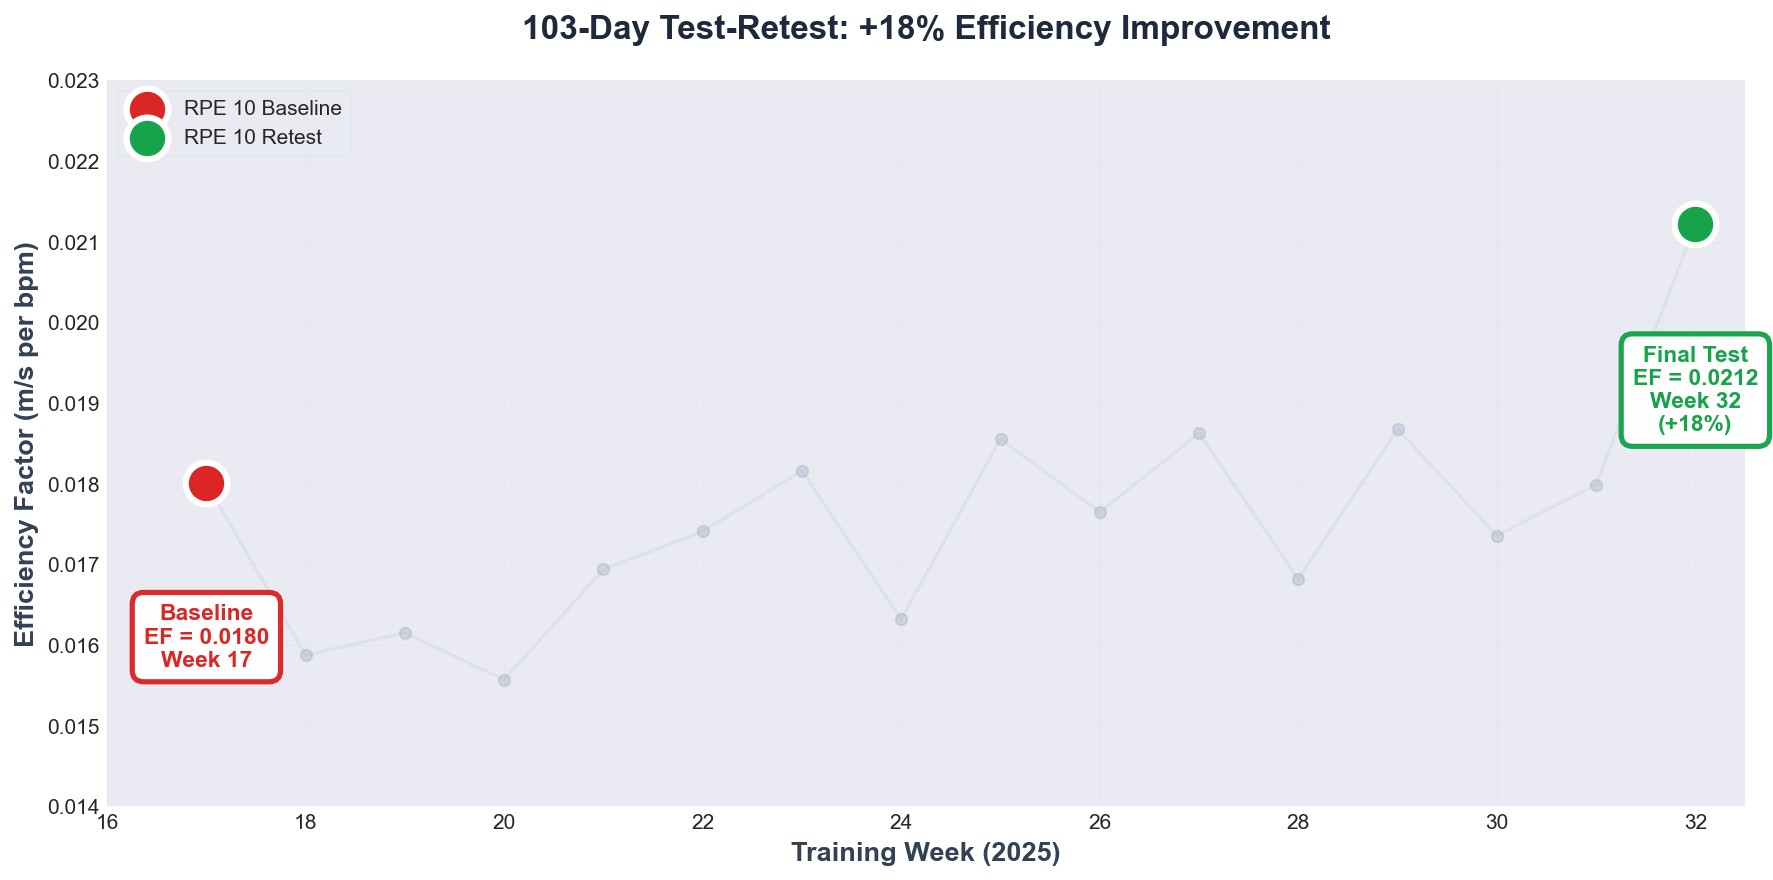
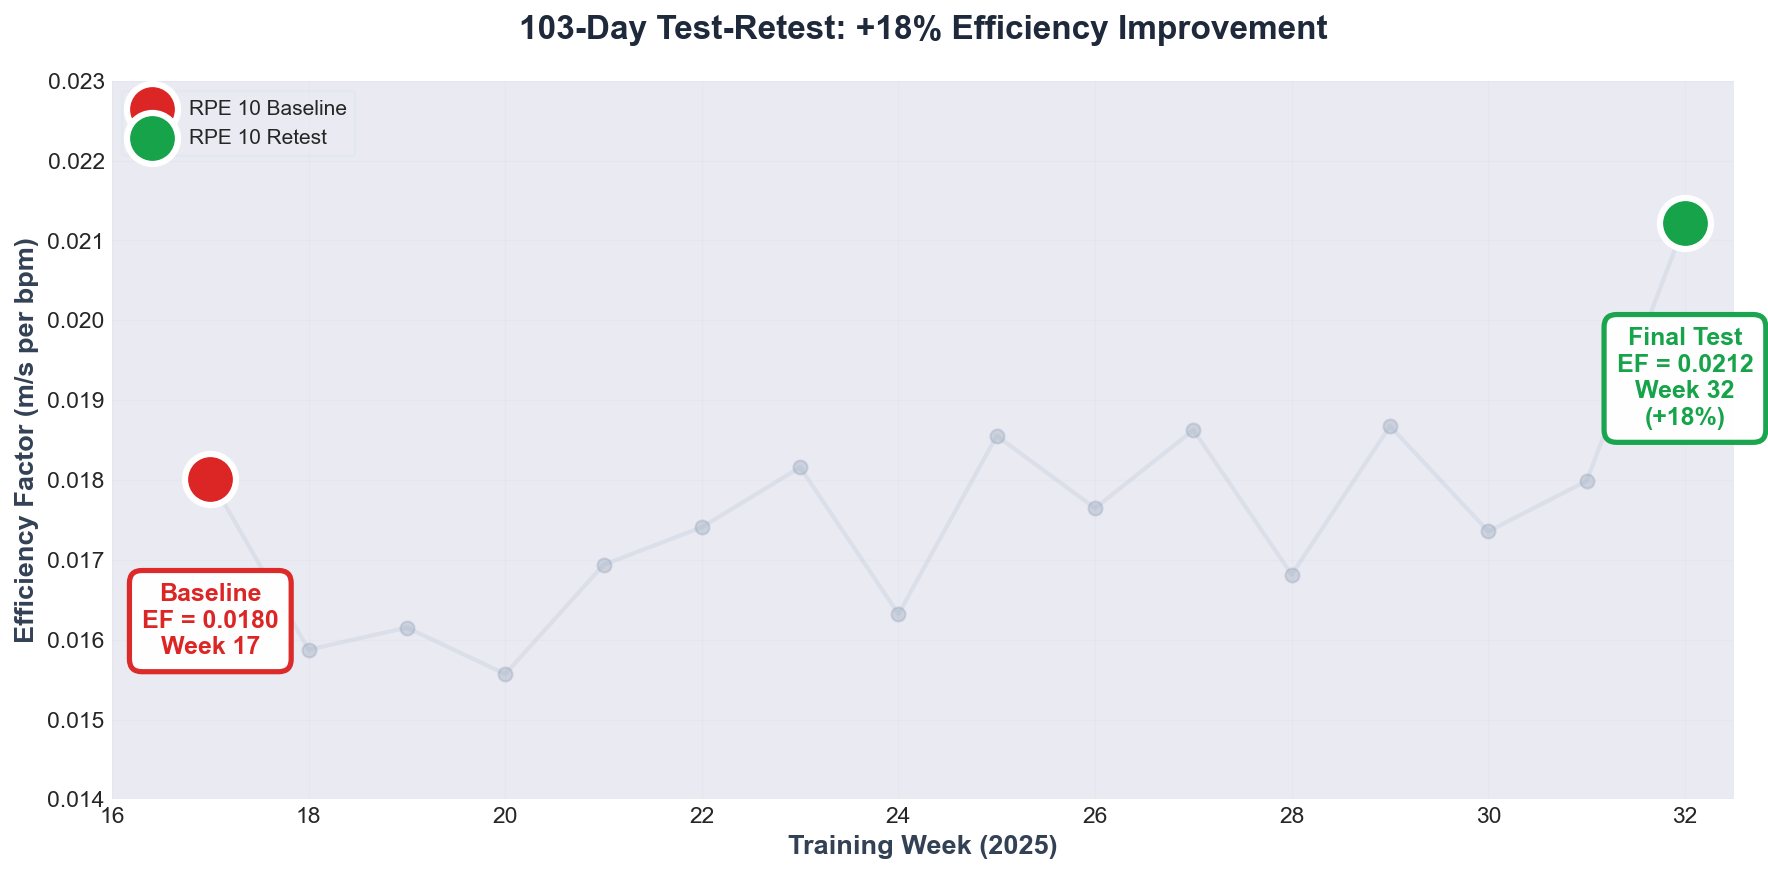
chore: improve EF chart readability
- Increase global font sizes for charts
- Bump EF figure DPI from 150 to 200 for crisper text
- Enlarge training line/markers for better visibility
- Enlarge RPE 10 baseline/retest markers and annotation text
- Regenerate EF and aerobic decoupling charts

diff --git a/tools/generate_charts_real_only.py b/tools/generate_charts_real_only.py
@@ -31,13 +31,13 @@ def setup_style():
     """Configure matplotlib for clean, professional charts."""
     plt.style.use('seaborn-v0_8-darkgrid')
     plt.rcParams.update({
-        'font.size': 11,
-        'axes.labelsize': 12,
-        'axes.titlesize': 13,
-        'xtick.labelsize': 10,
-        'ytick.labelsize': 10,
-        'legend.fontsize': 10,
-        'figure.titlesize': 14,
+        'font.size': 12,
+        'axes.labelsize': 13,
+        'axes.titlesize': 15,
+        'xtick.labelsize': 11,
+        'ytick.labelsize': 11,
+        'legend.fontsize': 11,
+        'figure.titlesize': 16,
         'axes.spines.top': False,
         'axes.spines.right': False,
     })
@@ -48,7 +48,7 @@ def generate_ef_chart(data, output_path: Path):
     Generate clean, publication-quality EF chart for test-retest comparison.
     Focuses on RPE 10 baseline and retest with minimal visual noise.
     """
-    fig, ax = plt.subplots(figsize=(12, 6), dpi=150)
+    fig, ax = plt.subplots(figsize=(12, 6), dpi=200)
     
     # Truncate at Week 32 (the final RPE 10 retest)
     data = [d for d in data if d['week'] <= 32]
@@ -59,9 +59,9 @@ def generate_ef_chart(data, output_path: Path):
     
     # Plot training data as subtle background context (de-emphasized)
     ax.plot(weeks, ef_values, 
-            color='#cbd5e1', linewidth=1.5, alpha=0.4, zorder=1)
+            color='#cbd5e1', linewidth=2.0, alpha=0.5, zorder=1)
     ax.scatter(weeks, ef_values,
-               s=30, color='#94a3b8', alpha=0.3, zorder=2)
+               s=45, color='#94a3b8', alpha=0.35, zorder=2)
     
     # Highlight RPE 10 tests with special markers
     rpe10_tests = []
@@ -75,16 +75,16 @@ def generate_ef_chart(data, output_path: Path):
             color = '#dc2626' if is_baseline else '#16a34a'
             
             # Large, prominent markers for RPE 10 tests
-            ax.scatter(week, ef, s=400, color=color, marker='o',
+            ax.scatter(week, ef, s=600, color=color, marker='o',
                       edgecolors='white', linewidths=3, zorder=10,
                       label='RPE 10 Baseline' if is_baseline else 'RPE 10 Retest')
             
             # Clean, minimal annotations
             label_text = f"Baseline\nEF = {ef:.4f}\nWeek {week}" if is_baseline else f"Final Test\nEF = {ef:.4f}\nWeek {week}\n(+18%)"
-            y_pos = ef - 0.0015 if is_baseline else ef - 0.0015
+            y_pos = ef - 0.0013 if is_baseline else ef - 0.0013
             
             ax.text(week, y_pos, label_text,
-                   ha='center', va='top', fontsize=11, fontweight='bold',
+                   ha='center', va='top', fontsize=12, fontweight='bold',
                    color=color,
                    bbox=dict(boxstyle='round,pad=0.5', facecolor='white',
                             edgecolor=color, linewidth=2.5, alpha=0.98))
